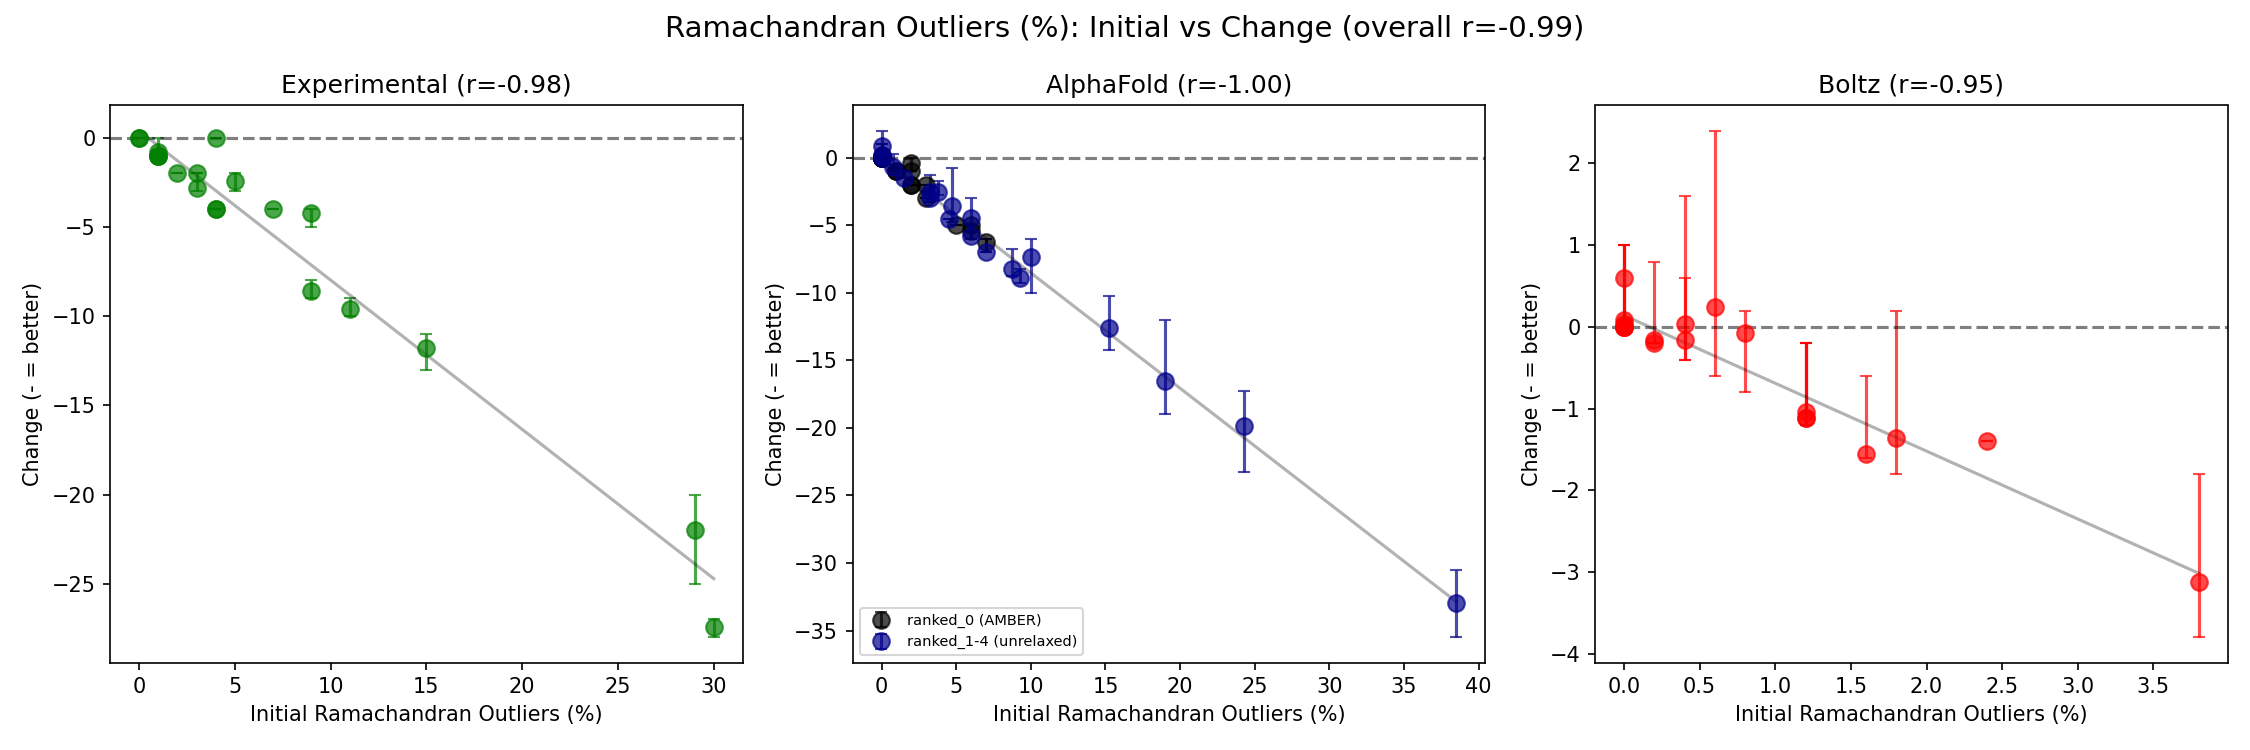
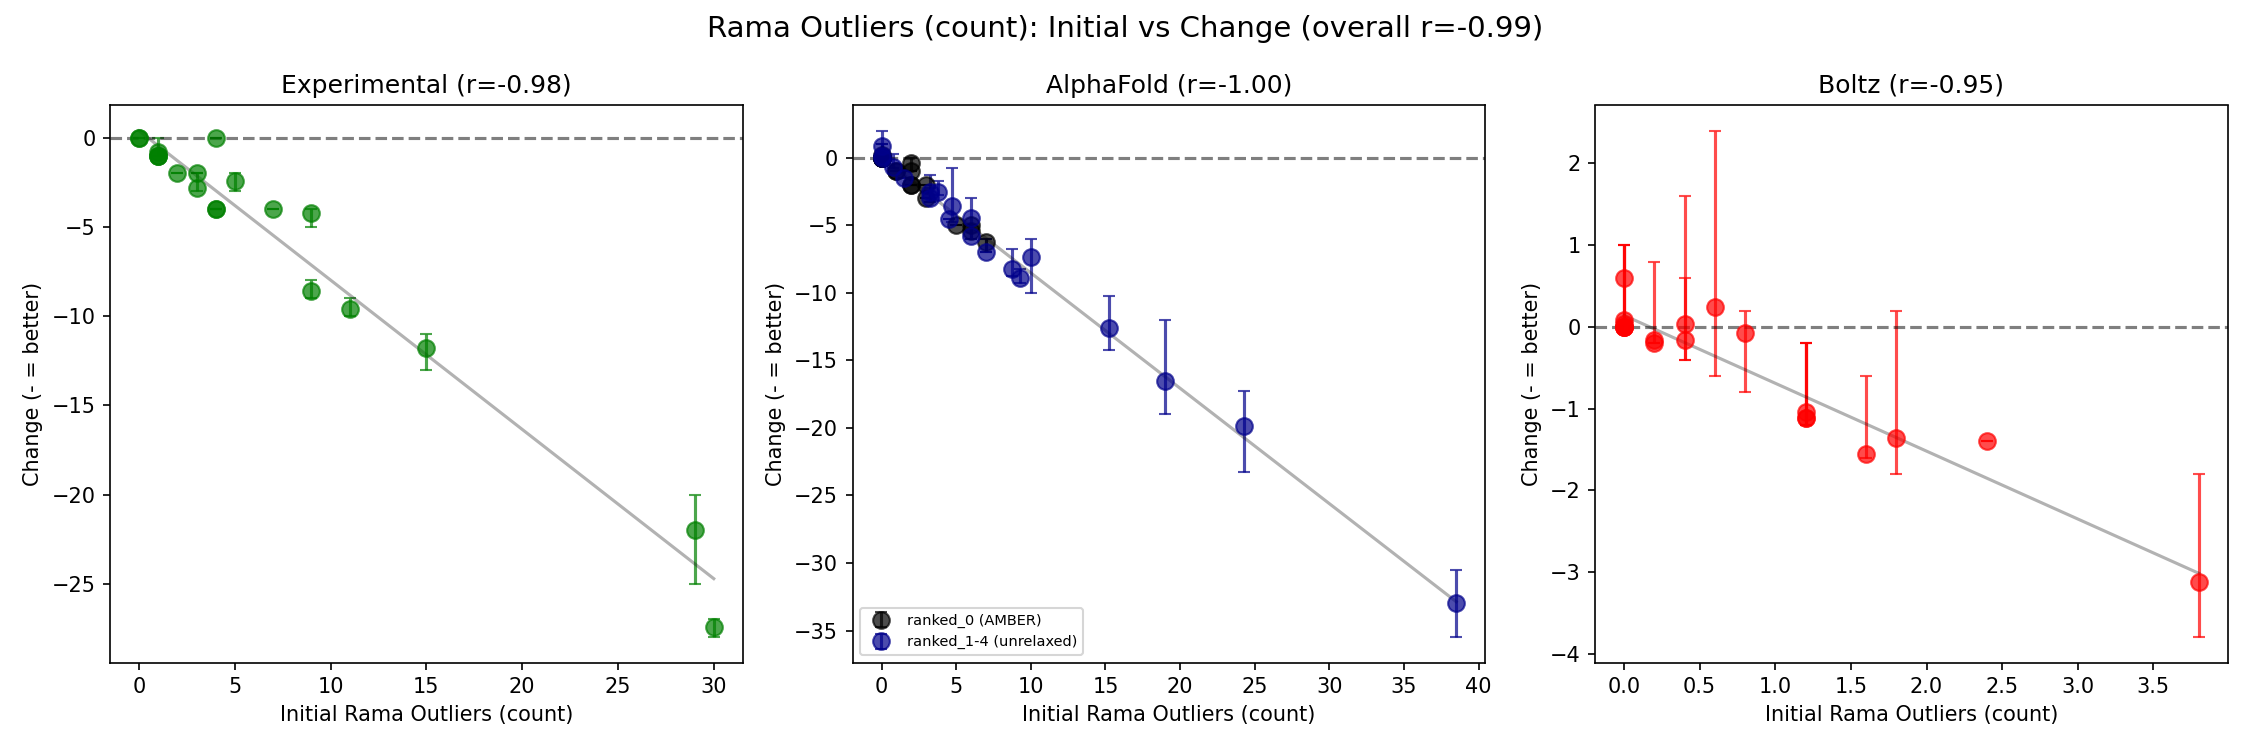
Add correlation plots for all 79 metrics (MolProbity + PoseBusters)

diff --git a/scripts/all_metrics_correlation.py b/scripts/all_metrics_correlation.py
@@ -26,26 +26,113 @@ for protein_dir in sorted(PROTEINS_DIR.iterdir()):
         pb_dfs.append(df)
 pb_df = pd.concat(pb_dfs, ignore_index=True) if pb_dfs else pd.DataFrame()
 
-# MolProbity metrics (lower = better for all)
+# Load PoseBusters pass/fail from per-protein directories
+pb_pf_dfs = []
+for protein_dir in sorted(PROTEINS_DIR.iterdir()):
+    if not protein_dir.is_dir():
+        continue
+    pb_file = protein_dir / "analysis" / "posebusters_results.csv"
+    if pb_file.exists():
+        df = pd.read_csv(pb_file)
+        df['protein'] = protein_dir.name
+        pb_pf_dfs.append(df)
+pb_pf_df = pd.concat(pb_pf_dfs, ignore_index=True) if pb_pf_dfs else pd.DataFrame()
+
+# MolProbity metrics - ALL 36 columns
 MP_METRICS = [
-    ('clashscore', 'Clashscore', True),  # (column, display_name, lower_is_better)
+    # Core metrics
+    ('clashscore', 'Clashscore', True),
     ('molprobity_score', 'MolProbity Score', True),
-    ('rama_outliers', 'Ramachandran Outliers (%)', True),
-    ('rota_outliers', 'Rotamer Outliers (%)', True),
+    ('clash_count', 'Clash Count (raw)', True),
+    ('atom_count', 'Atom Count', False),
+    # Ramachandran
+    ('rama_favored', 'Rama Favored (count)', False),
+    ('rama_allowed', 'Rama Allowed (count)', False),
+    ('rama_outliers', 'Rama Outliers (count)', True),
+    ('rama_total', 'Rama Total', False),
+    ('rama_favored_pct', 'Rama Favored %', False),
+    ('rama_outliers_pct', 'Rama Outliers %', True),
+    # Rotamers
+    ('rota_favored', 'Rotamer Favored (count)', False),
+    ('rota_outliers', 'Rotamer Outliers (count)', True),
+    ('rota_total', 'Rotamer Total', False),
+    ('rota_favored_pct', 'Rotamer Favored %', False),
+    ('rota_outliers_pct', 'Rotamer Outliers %', True),
+    # C-beta deviations
+    ('cbeta_deviations', 'C-beta Deviations', True),
+    ('cbeta_mean', 'C-beta Mean Dev', True),
+    ('cbeta_max', 'C-beta Max Dev', True),
+    ('cbeta_std', 'C-beta Std Dev', True),
+    ('cbeta_rmsz', 'C-beta RMSZ', True),
+    ('cbeta_n', 'C-beta N', False),
+    ('cbeta_outliers', 'C-beta Outliers', True),
+    # Omega angles
+    ('omega_cis_proline', 'Omega Cis-Pro', False),
+    ('omega_cis_general', 'Omega Cis-General', True),
+    ('omega_twisted', 'Omega Twisted', True),
+    ('omega_mean', 'Omega Mean', False),
+    ('omega_std', 'Omega Std', True),
+    ('omega_min', 'Omega Min', False),
+    ('omega_max', 'Omega Max', False),
+    ('omega_trans', 'Omega Trans', False),
+    ('omega_cis', 'Omega Cis', False),
+    # Bonds and angles
     ('bond_rmsz', 'Bond Length RMSZ', True),
+    ('bond_outliers', 'Bond Outliers', True),
+    ('bond_n', 'Bond N', False),
     ('angle_rmsz', 'Bond Angle RMSZ', True),
+    ('angle_outliers', 'Angle Outliers', True),
+    ('angle_n', 'Angle N', False),
 ]
 
-# PoseBusters continuous metrics
-PB_METRICS = [
-    ('raw_n_clashes', 'Steric Clashes (count)', True),
-    ('raw_worst_clash', 'Worst Clash Overlap (A)', True),
-    ('raw_n_bond_outliers', 'Bond Length Outliers', True),
-    ('raw_mean_bond_length', 'Mean Peptide Bond (A)', False),  # ~1.33 is ideal
+# PoseBusters RAW continuous metrics - ALL columns
+PB_RAW_METRICS = [
+    ('raw_n_atoms', 'Atom Count', False),
+    ('raw_n_residue_types', 'Residue Types', False),
+    ('raw_n_valid_residue_types', 'Valid Residue Types', False),
+    ('raw_n_backbone_breaks', 'Backbone Breaks', True),
+    ('raw_max_break_distance', 'Max Break Distance (A)', True),
+    ('raw_n_peptide_bonds', 'Peptide Bonds', False),
+    ('raw_n_bond_outliers', 'Bond Outliers', True),
+    ('raw_mean_bond_length', 'Mean Bond Length (A)', False),
+    ('raw_std_bond_length', 'Std Bond Length', True),
+    ('raw_n_backbone_angles', 'Backbone Angles', False),
     ('raw_n_angle_outliers', 'Angle Outliers', True),
-    ('raw_mean_backbone_angle', 'Mean N-CA-C Angle', False),  # ~111 is ideal
-    ('raw_n_twisted', 'Twisted Omega Count', True),
-    ('raw_rosetta_score', 'Rosetta Energy (REU)', True),
+    ('raw_mean_backbone_angle', 'Mean N-CA-C Angle', False),
+    ('raw_std_backbone_angle', 'Std N-CA-C Angle', True),
+    ('raw_n_clashes', 'Steric Clashes', True),
+    ('raw_worst_clash', 'Worst Clash (A)', True),
+    ('raw_n_aromatic_rings', 'Aromatic Rings', False),
+    ('raw_n_nonplanar_rings', 'Non-planar Rings', True),
+    ('raw_max_ring_deviation', 'Max Ring Deviation', True),
+    ('raw_n_omega_angles', 'Omega Angles', False),
+    ('raw_n_cis', 'Cis Peptides', False),
+    ('raw_n_trans', 'Trans Peptides', False),
+    ('raw_n_twisted', 'Twisted Peptides', True),
+    ('raw_mean_abs_omega', 'Mean |Omega|', False),
+    ('raw_n_chiral_centers', 'Chiral Centers', False),
+    ('raw_n_d_amino_acids', 'D-Amino Acids', True),
+    ('raw_n_residues', 'Residues', False),
+    ('raw_n_incomplete_residues', 'Incomplete Residues', True),
+    ('raw_n_missing_backbone_atoms', 'Missing BB Atoms', True),
+    ('raw_rosetta_score', 'Rosetta Energy', True),
+]
+
+# PoseBusters PASS/FAIL metrics (as 0/1)
+PB_PASSFAIL_METRICS = [
+    ('structure_loaded', 'Structure Loaded', False),  # higher = better (pass)
+    ('valid_residues', 'Valid Residues', False),
+    ('backbone_connected', 'Backbone Connected', False),
+    ('bond_lengths', 'Bond Lengths OK', False),
+    ('bond_angles', 'Bond Angles OK', False),
+    ('steric_clashes', 'No Steric Clashes', False),
+    ('aromatic_flatness', 'Aromatic Flatness', False),
+    ('peptide_planarity', 'Peptide Planarity', False),
+    ('chirality', 'Chirality OK', False),
+    ('complete_residues', 'Complete Residues', False),
+    ('internal_energy', 'Internal Energy OK', False),
+    ('all_pass', 'All Tests Pass', False),
+    ('n_pass', 'Tests Passed (count)', False),
 ]
 
 
@@ -264,9 +351,9 @@ def main():
         print(f"  {name}: r={r:.3f}, p={p:.6f} -> {filename}")
         results.append({'metric': name, 'source': 'MolProbity', 'r': r, 'p': p, 'lower_better': lower_better})
 
-    # PoseBusters metrics
-    print("\n--- PoseBusters Continuous Metrics ---")
-    for col, name, lower_better in PB_METRICS:
+    # PoseBusters RAW metrics
+    print("\n--- PoseBusters RAW Continuous Metrics ---")
+    for col, name, lower_better in PB_RAW_METRICS:
         if col not in pb_df.columns:
             print(f"  {name}: column not found, skipping")
             continue
@@ -276,10 +363,27 @@ def main():
             print(f"  {name}: no data")
             continue
 
-        filename = f'corr_pb_{col.replace("raw_", "")}.png'
+        filename = f'corr_pbraw_{col.replace("raw_", "")}.png'
         r, p = plot_correlation(data, name, lower_better, filename)
         print(f"  {name}: r={r:.3f}, p={p:.6f} -> {filename}")
-        results.append({'metric': name, 'source': 'PoseBusters', 'r': r, 'p': p, 'lower_better': lower_better})
+        results.append({'metric': name, 'source': 'PB-Raw', 'r': r, 'p': p, 'lower_better': lower_better})
+
+    # PoseBusters PASS/FAIL metrics
+    print("\n--- PoseBusters Pass/Fail Metrics ---")
+    for col, name, lower_better in PB_PASSFAIL_METRICS:
+        if col not in pb_pf_df.columns:
+            print(f"  {name}: column not found, skipping")
+            continue
+
+        data = collect_metric_data(pb_pf_df, col, is_molprobity=False)
+        if len(data) == 0:
+            print(f"  {name}: no data")
+            continue
+
+        filename = f'corr_pbpf_{col}.png'
+        r, p = plot_correlation(data, name, lower_better, filename)
+        print(f"  {name}: r={r:.3f}, p={p:.6f} -> {filename}")
+        results.append({'metric': name, 'source': 'PB-PassFail', 'r': r, 'p': p, 'lower_better': lower_better})
 
     # Summary table
     print("\n" + "=" * 70)
